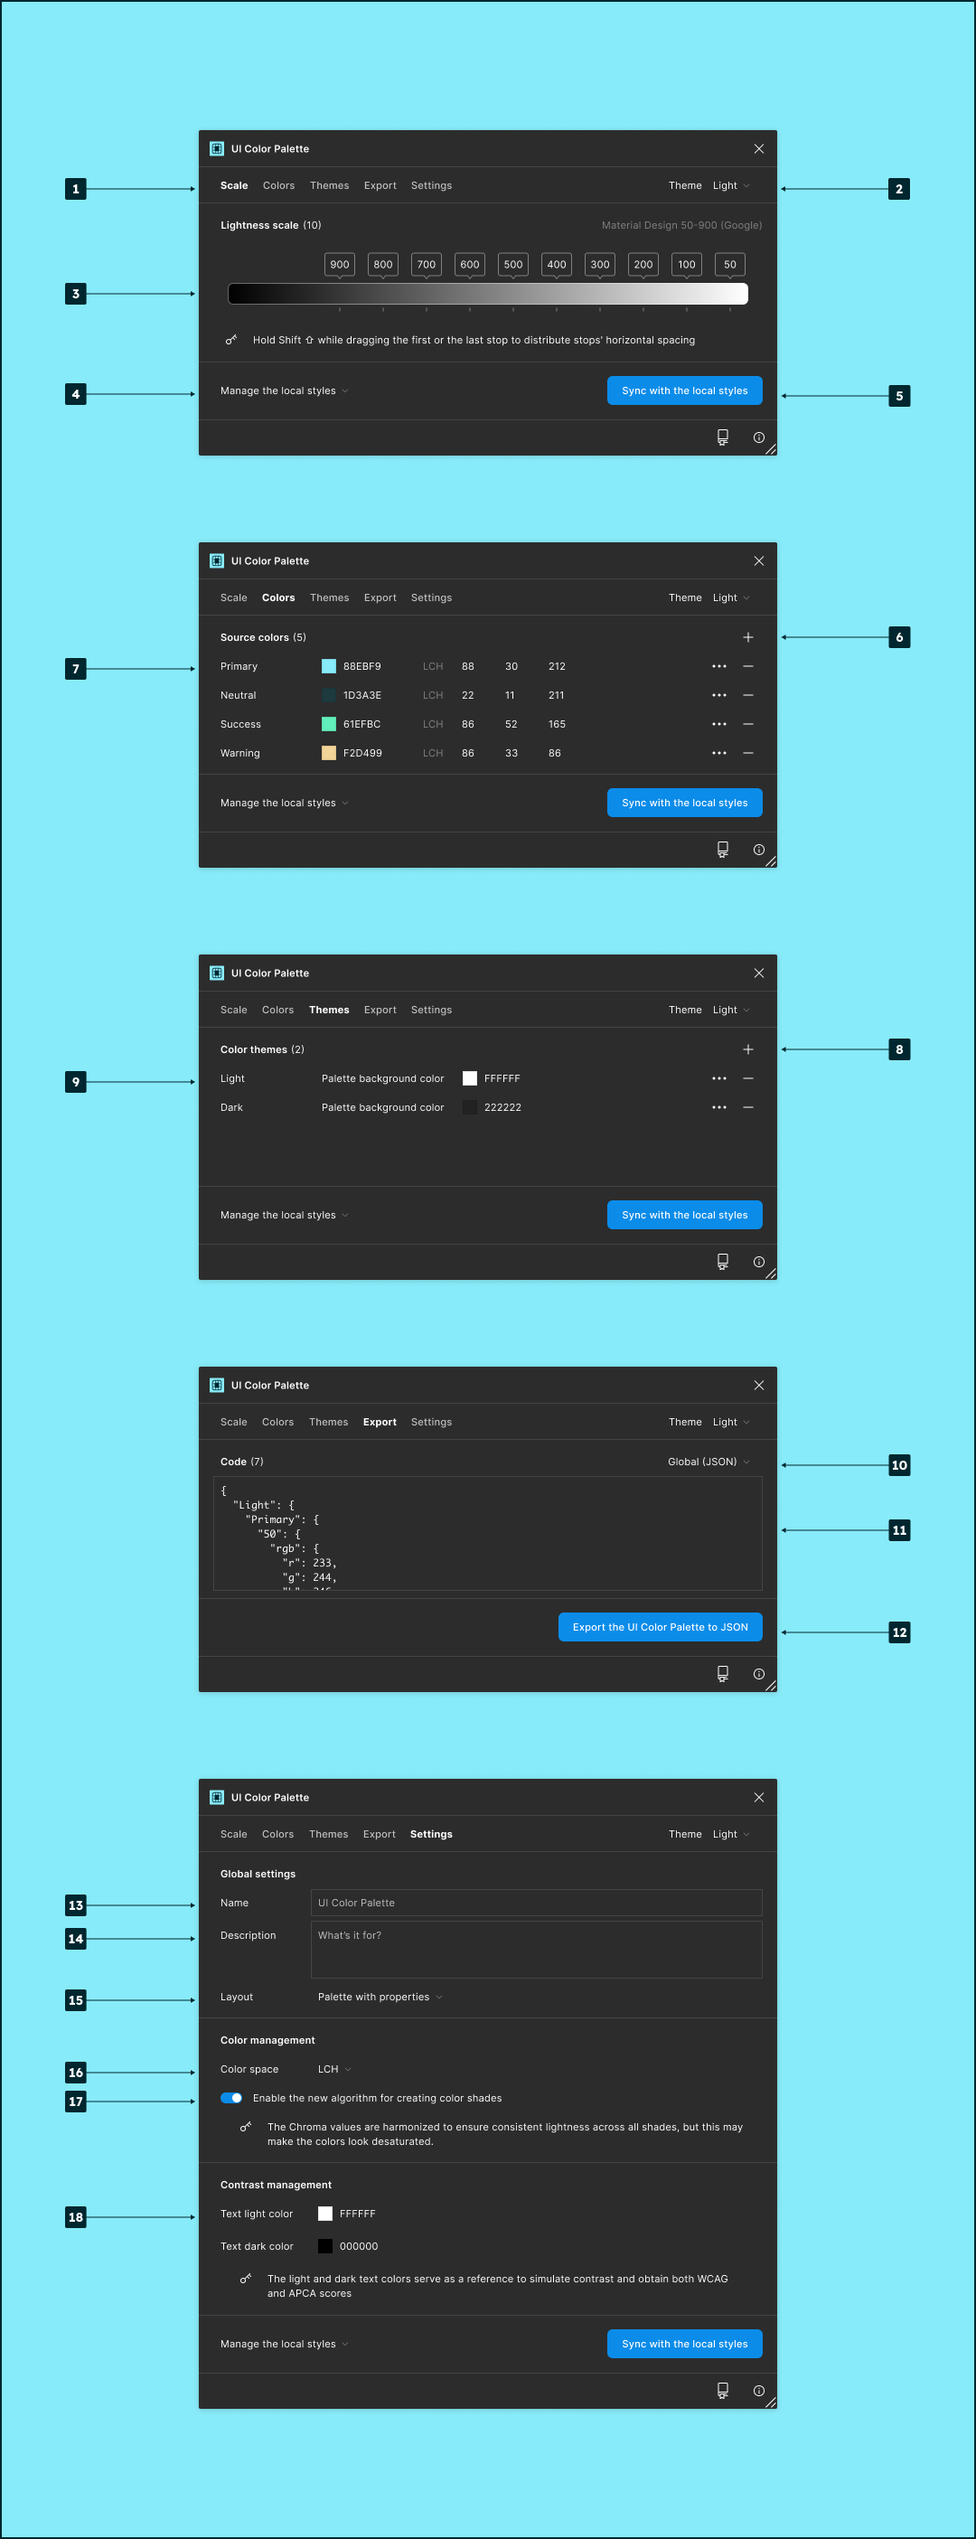
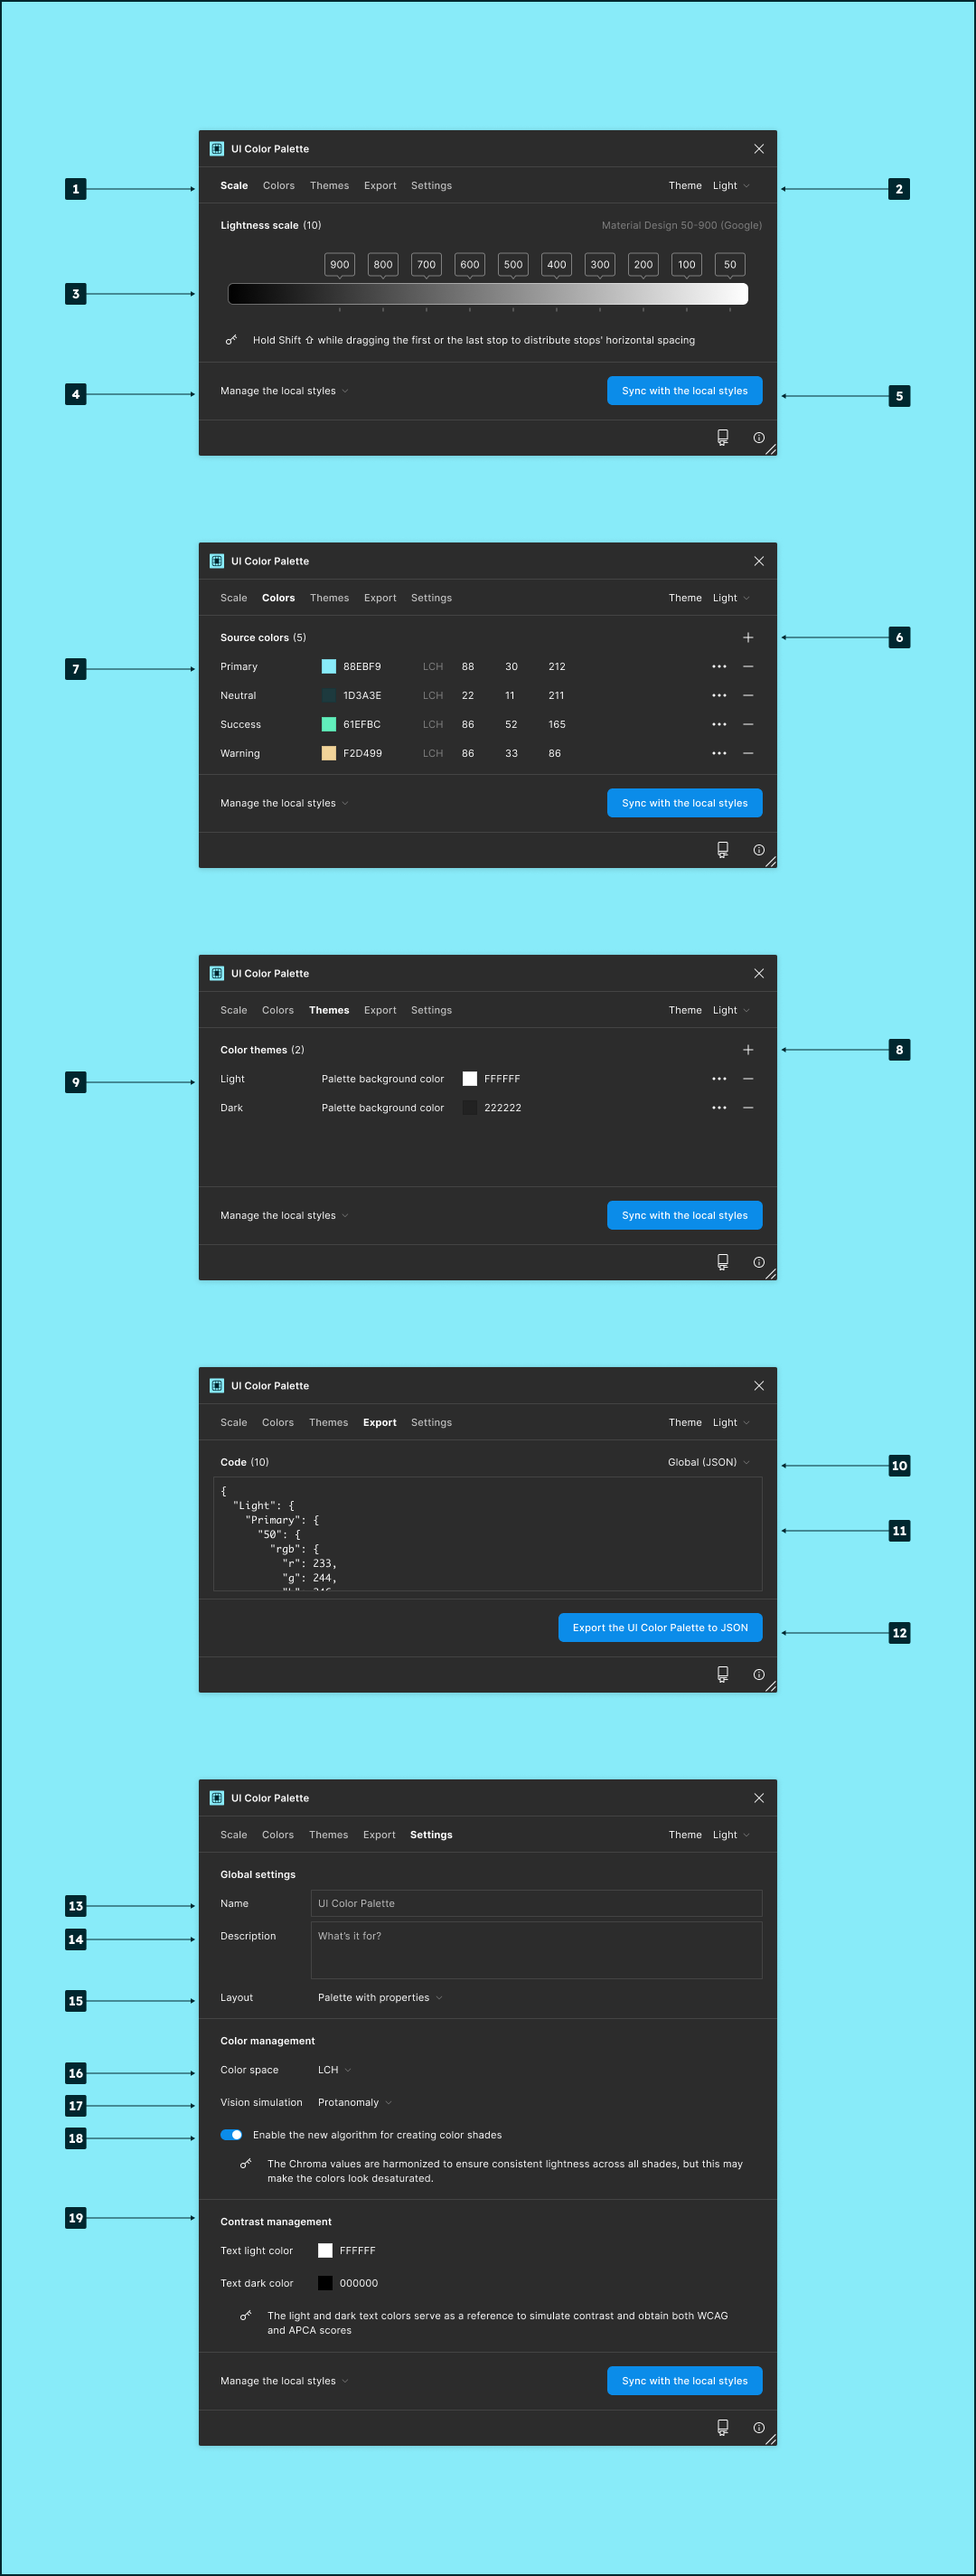
GITBOOK-30: V30

diff --git a/release-notes/ui-color-palette-30.md b/release-notes/ui-color-palette-30.md
@@ -1,0 +1,49 @@
+---
+description: A step toward accessibility by design
+layout: landing
+---
+
+# UI Color Palette 30
+
+## Key Feature
+
+{% embed url="https://drive.google.com/file/d/1b53Zj7qz74sCpMitKH5tT3mu3YDV6S6z/view?usp=sharing" %}
+
+You can simulate color perception and contrast for different types of color blindness. This way, you can get a sense of how people with various color perception abilities might interact with your design. This step is key to making accessibility a part of your design process. By including this, you're making sure your design is not just good-looking, but also functional and accessible for everyone, including those with color vision deficiencies.
+
+## Improvements
+
+### Export in Compose
+
+<figure><img src="../.gitbook/assets/release_note-android_compose.png" alt=""><figcaption></figcaption></figure>
+
+Jetpack Compose, a modern toolkit, streamlines Android UI development. It offers an efficient way to design native applications, boosting the development process and proving valuable for Android development.
+
+### Export in UIKit
+
+<figure><img src="../.gitbook/assets/release_note-apple_uikit.png" alt=""><figcaption></figcaption></figure>
+
+If your Apple project relies on UIKit, you can export specifically for it. This preserves your project's key aspects and ensures they work with UIKit. This is useful for developers wanting to maintain their project's integrity while leveraging UIKit's robust features.
+
+## Minor Changes
+
+* After selecting colors on your canvas, use the shortcut button to automatically run the plugin with the chosen source colors.
+* Newly added features are highlighted.
+
+## Bug Fixes
+
+* The newly created color shades are synchronized as needed.
+* The creation of variable modes is blocked without exception if the number of color themes exceeds the limit.
+* The number of available export types has been corrected.
+
+***
+
+Also, we want to remind you that we're always listening to your [feedback and suggestions](https://uicp.link/feedback), and we've made sure to incorporate your most recent feedback into these updates to ensure that they're tailored to your needs.
+
+You can now start a discussion to share your practices, write feedback, help the community, etc. [Get ready to write a topic!](https://uicp.link/discuss)
+
+Besides, you can always get support by sending us an email at [hello@ui-color-palette.com](mailto:hello@ui-color-palette.com) and help us improve the quality of UI Color Palette by [reporting a bug](https://uicp.link/report).
+
+Enjoy your updated UI Color Palette!
+
+UI Color Palette Team

diff --git a/publish-and-transfer-a-color-palette/export-the-palette.md b/publish-and-transfer-a-color-palette/export-the-palette.md
@@ -178,32 +178,56 @@ module.exports = {
 }
 ```
 
-## Export as Color to Swift (Apple OS)・Pro
+## Export for Apple apps (SwiftUI and UIKit)・Pro
 
-You can export every color shade to a Swift file on your computer. This file uses the SwiftUI library for declaring colors and reusing them through an Xcode project. Learn more about Color Structure on the [Apple Developer Documentation](https://developer.apple.com/documentation/swiftui/color).
+You can export every color shade to a Swift file on your computer, regarding the framework you use for building UI in your Xcode project. Learn more about Color Structure on the [Apple Developer Documentation](https://developer.apple.com/documentation/swiftui/color).
 
-The export file follows this model:
+The export files follow these models:
+
+### SwiftUI
 
 <pre class="language-swift" data-overflow="wrap"><code class="lang-swift">import SwiftUI
 
 <strong>public extension Color {
-</strong><strong>
-</strong>  static let Token = Color.TokenColor()
-  
+</strong>  static let Token = Color.TokenColor() 
   struct TokenColor {
     // themeName - sourceColorName
     public let themeNameSourceColorNameStopName = Color(red: 0.133, green: 0.329, blue: 0.961)
     ...
   }
-
 }
 </code></pre>
 
-## Export as Resources to XML (Android)・Pro
+### UIKit
 
-You can export every color shade to an XML file on your computer. This file enables color declaration to be reused through an Android project. Learn more about App Resources on the [Android Developer Documentation](https://developer.android.com/guide/topics/resources/providing-resources).
+<pre class="language-swift" data-overflow="wrap"><code class="lang-swift">import UIKit
 
-The export file follows this model:
+<strong>struct Color {
+</strong>  struct ThemeName {
+    // sourceColorName
+    public let SourceColorNameStopName = Color(red: 0.133, green: 0.329, blue: 0.961)
+    ...
+  }
+}
+</code></pre>
+
+## Export for Android apps (Compose and Resources)・Pro
+
+You can export every color shade to Kotlin or an XML file on your computer regarding how you want to develop your Android project. Learn more about [App Resources](https://developer.android.com/guide/topics/resources/providing-resources) and [Jetpack Compose](https://developer.android.com/jetpack/compose) on the Android Developer Documentation.
+
+The export files follow these models:
+
+### Compose
+
+```kotlin
+import androidx.compose.ui.graphics.Color
+
+// themeName - sourceColorName
+val themeName_sourceColorName_stopName = Color(0XFF1D3A3E)
+...
+```
+
+### Resources
 
 {% code overflow="wrap" %}
 ```xml

diff --git a/manage-a-color-palette/manage-the-colors.md b/manage-a-color-palette/manage-the-colors.md
@@ -1,5 +1,11 @@
 # Manage the colors
 
+{% hint style="info" %}
+New palettes use an improved color shade creation process. Existing palettes need manual activation to use this process, which creates harmonized and consistent palettes with slightly desaturated colors.
+{% endhint %}
+
+## Select a color space
+
 {% embed url="https://drive.google.com/file/d/1VvcCp5okql_yKHT-dEPrwQR4xWTJoPXR/view?usp=drive_link" fullWidth="true" %}
 
 {% hint style="info" %}
@@ -15,4 +21,17 @@ You can change the global color space of your whole palette will be affected. Fo
 * [`HSL`](../glossary.md#hsl).
 * [`HSLuv`](../glossary.md#hsluv).
 
-In addition, when you create a new palette, the improved color shade creation process is automatically used to make every color shade from your source color. However, you'll need to manually enable this enhanced process for your existing palettes because it may significantly change the color shades. The improved process aims to harmonize the chroma or saturation and create a more consistent palette with slightly desaturated colors.
+## Select a vision simulation
+
+{% embed url="https://drive.google.com/file/d/1b53Zj7qz74sCpMitKH5tT3mu3YDV6S6z/view?usp=sharing" fullWidth="true" %}
+
+You can simulate a specific vision disability to get a perception through the eyes of people living with those troubles. The contrast between the `Text light color`/`Text dark color` and the color shades are also simulated. In that way, the contrast might be managed for every perception of colors. Here are the vision simulations:
+
+* Protanomaly.
+* Protanopia.
+* Deuteranomaly・Pro.
+* Deuteranopia・Pro.
+* Tritanomaly・Pro.
+* Tritanopia・Pro.
+* Achromatomaly・Pro.
+* Achromatopsia・Pro.

diff --git a/release-notes/ui-color-palette-29.md b/release-notes/ui-color-palette-29.md
@@ -21,14 +21,10 @@ We've revamped the color model for CSS exports. This update allows for a broader
 
 The Material Design 3 preset has been added to our options. This new preset increases versatility in your design process. Applying Material Design principles and creating visually appealing projects is now easier.
 
-Achieve faster and intuitive control of the configuration using your keyboard. Navigate through the actions efficiently.
-
-Helpful links, such as support, contact, external links, and news, are compiled into a single list.
-
 ## Minor Changes
 
-* We've updated our communication button labeled "Send an email" to now read "Contact Support"
-* We've improved the instructions to guide users to select colors from the canvas.
+* The communication button "Send an email" has been updated to "Contact Support".
+* Instructions for selecting colors from the canvas have been improved.
 
 ## Bug Fixes
 

diff --git a/create-a-color-palette/create-the-color-palette.md b/create-a-color-palette/create-the-color-palette.md
@@ -42,6 +42,19 @@ You can change the global color space of your whole palette will be affected. Fo
 * [`HSL`](../glossary.md#hsl).
 * [`HSLuv`](../glossary.md#hsluv).
 
+## Select a vision simulation
+
+You can simulate a specific vision disability to get a perception through the eyes of people living with those troubles. The contrast between the `Text light color`/`Text dark color` and the color shades are also simulated. In that way, the contrast might be managed for every perception of colors. Here are the vision simulations:
+
+* Protanomaly.
+* Protanopia.
+* Deuteranomaly・Pro.
+* Deuteranopia・Pro.
+* Tritanomaly・Pro.
+* Tritanopia・Pro.
+* Achromatomaly・Pro.
+* Achromatopsia・Pro.
+
 ## Create the palette in one single click
 
 The palette is instantly created close to your view by clicking `Create a UI Color Palette`, according to the `Lightness scale` and the `Settings`.

diff --git a/edit-a-color-palette/overview.md b/edit-a-color-palette/overview.md
@@ -41,5 +41,6 @@ description: A quick glance at the controller
 14. Change the palette `Description`.
 15. Change the palette `Layout`.
 16. Select the `Color space`.
-17. Turn color shades into new ones using the latest algorithm.
-18. Adjust the `Text light color` and `Text dark color` on the color shades.
+17. Select a `Vision simulation`.
+18. Turn color shades into new ones using the latest algorithm.
+19. Adjust the `Text light color` and `Text dark color` on the color shades.

diff --git a/create-a-color-palette/overview.md b/create-a-color-palette/overview.md
@@ -19,4 +19,5 @@ description: A quick glance at the controller
 9. Change the palette `Description`.
 10. Change the palette `Layout`.
 11. Select the `Color space`.
-12. Adjust the `Text light color` and `Text dark color` on the color shades.
+12. Select a `Vision simulation`.
+13. Adjust the `Text light color` and `Text dark color` on the color shades.

diff --git a/SUMMARY.md b/SUMMARY.md
@@ -46,3 +46,4 @@
   * [UI Color Palette 26](release-notes/ui-color-palette-26.md)
   * [UI Color Palette 28](release-notes/ui-color-palette-28.md)
   * [UI Color Palette 29](release-notes/ui-color-palette-29.md)
+  * [UI Color Palette 30](release-notes/ui-color-palette-30.md)
